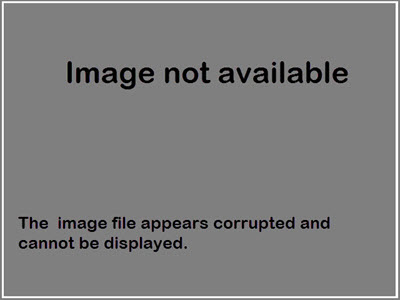
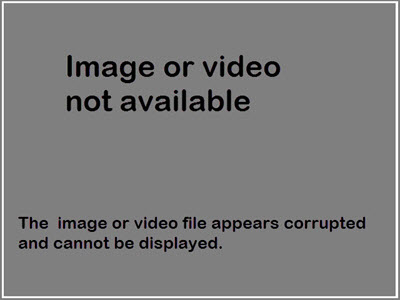
Bug fixes: Delete now works properly (previously produced indexing issues in imagetable) Wording change: Updated text in various 'Constant' bitmaps Uint test constants for DarkPixelFractiion updated (values differed somewhat from what was there - seems odd as only change was to use 'OnLoad' vs 'None

Changed region(s): [[0.15, 0.18, 0.87, 0.39], [0.03, 0.72, 0.93, 0.84]]

diff --git a/Timelapse2/Timelapse/TimelapseWindow.xaml.cs b/Timelapse2/Timelapse/TimelapseWindow.xaml.cs
@@ -384,7 +384,8 @@ namespace Timelapse
                         // framework bug: WriteableBitmap.Metadata returns null rather than metatada offered by the underlying BitmapFrame, so 
                         // retain the frame and pass its metadata to TryUseImageTaken().
                         bitmapSource = imageProperties.LoadBitmap(this.FolderPath);
-                        // Set the ImageQuality to corrupt if the returned bitmap is the corrupt image, otherwise set it to its Ok/Dark setting
+ 
+                        // Set the ImageQuality to corrupt i                       int foo = Constants.Images.Foo;f the returned bitmap is the corrupt image, otherwise set it to its Ok/Dark setting
                         if (bitmapSource == Constants.Images.Corrupt)
                         {
                             imageProperties.ImageQuality = ImageFilter.Corrupted;
@@ -679,59 +680,50 @@ namespace Timelapse
             }
             else
             {
-                // other than custom filters these cases shouldn't be reachable as the menu options for the filters will be disabled if there aren't any
+                // These cases are typically reached only when a user deletes all images that fit that filter.  
                 // corresponding images
                 string status;
                 string title;
                 string problem;
                 string reason = null;
                 string hint;
+                status = "Resetting filter to All Images";
+                title = "Resetting filter to All Images (no files currently match the current filter)";
                 if (filter == ImageFilter.Corrupted)
                 {
-                    status = "no corrupted files to display.";
-                    title = "Corrupted filter selected, but no files are marked as corrupted.";
-                    problem = "None of the files in this image set are corrupted images, so nothing can be shown.";
+                    problem = "The 'Corrupted filter' was previously selected. Yet no files  currently match that filter, so nothing can be shown.";
                     reason = "None of the files have their 'ImageQuality' field set to Corrupted.";
-                    hint = "If you have files you think should be marked as 'Corrupted', set their ImageQuality field to Corrupted.";
+                    hint = "If you have files you think should be marked as 'Corrupted', set their 'ImageQuality' field to 'Corrupted' and then reapply the filter to view only those corrupted files.";
                 }
                 else if (filter == ImageFilter.Custom)
                 {
-                    status = "no files to display.";
-                    title = "Custom filter selected, but no files match the specified filter.";
-                    problem = "None of the files in this image set match the specified filter, so nothing can be shown.";
-                    hint = "Try to create another custom filter.";
+                    problem = "The 'Custom filter' was previously selected. Yet no files currently match that filter, so nothing can be shown.";
+                    reason = "None of the files match the criteria set in the current Custom Filter.";
+                    hint = "Try to create another custom filter and then reapply the filter to view only those files matching the filter.";
                 }
                 else if (filter == ImageFilter.Dark)
                 {
-                    status = "no dark files to display.";
-                    title = "Dark filter selected, but no files are marked as dark.";
-                    problem = "None of the files in this image set are dark, so nothing can be shown.";
+                    problem = "The 'Dark filter' was previously selected. Yet no files currently match that filter, so nothing can be shown.";
                     reason = "None of the files have their 'ImageQuality' field set to Dark.";
-                    hint = "If you have files you think should be marked as 'Dark', set their ImageQuality field to Dark.";
+                    hint = "If you have files you think should be marked as 'Dark', set their 'ImageQuality' field to 'Dark' and then reapply the filter to view only those dark files.";
                 }
                 else if (filter == ImageFilter.Missing)
                 {
-                    status = "no missing files to display.";
-                    title = "Missing filter selected, but no files are marked as missing.";
-                    problem = "None of the files in this image set are missing, so nothing can be shown.";
+                    problem = "The 'Missing filter' was previously selected. Yet no files currently match that filter, so nothing can be shown.";
                     reason = "None of the files have their 'ImageQuality' field set to Missing.";
-                    hint = "If you have files you think should be marked as 'Missing', set their ImageQuality field to Missing.";
+                    hint = "If you have files you think should be marked as 'Missing', set their 'ImageQuality' field to 'Missing' and then reapply the filter to view only those missing files.";
                 }
                 else if (filter == ImageFilter.MarkedForDeletion)
                 {
-                    status = "No files marked for deletion to display.";
-                    title = "Delete filter selected, but no files are marked for deletion";
-                    problem = "None of the files in this image set are marked for deletion, so nothing can be shown.";
+                    problem = "The 'Marked for Deletion' filter was previously selected. Yet no files currently match that filter, so nothing can be shown.";
                     reason = "None of the files have their 'Delete?' field checked.";
-                    hint = "If you have files you think should be marked for deletion, check their Delete? field.";
+                    hint = "If you have files you think should be marked for deletion, check their 'Delete?' field and then reapply the filter to view only those files marked for deletion.";
                 }
                 else if (filter == ImageFilter.Ok)
                 {
-                    status = "no light files to display.";
-                    title = "Light filter selected, but no files are marked as light.";
-                    problem = "None of the files in this image set are light, so nothing can be shown.";
+                    problem = "The 'Ok filter' was previously selected. Yet no files currently match that filter, so nothing can be shown.";
                     reason = "None of the files have their 'ImageQuality' field set to OK.";
-                    hint = "If you have files you think should be marked as 'light', set their ImageQuality field to OK.";
+                    hint = "If you have files you think should be marked as 'Ok', set their 'ImageQuality' field to 'Ok' and then reapply the filter to view only those Ok files.";
                 }
                 else
                 {
@@ -747,7 +739,7 @@ namespace Timelapse
                     messageBox.Message.Reason = reason;
                 }
                 messageBox.Message.Hint = hint;
-                messageBox.Message.Result = "The filter will not be applied.";
+                messageBox.Message.Result = "The 'All Images' filter will be applied, where all images in your image set will be displayed.";
                 messageBox.ShowDialog();
 
                 this.SelectDataTableImagesAndShowImage(Constants.DefaultImageRowIndex, ImageFilter.All);
@@ -757,7 +749,6 @@ namespace Timelapse
             // Display the first available image under the new filter
             if (this.dataHandler.ImageDatabase.CurrentlySelectedImageCount > 0)
             {
-                // this.ShowFirstDisplayableImage(imageRow); // TODOSAUL: It used to be this call, but changed it to ShowImage. Check, but seems to work.
                 this.ShowImage(imageRow);
             }
 
@@ -2065,23 +2056,24 @@ namespace Timelapse
             if (result == true)
             {
                 long currentID = this.dataHandler.ImageCache.Current.ID;
-                int currentRow = this.dataHandler.ImageCache.CurrentRow;  // TryInvalidate may reset the current row to -1, so we need to save it.
-                foreach (long id in deleteImagesDialog.ImageFilesRemovedByID)
-                {
-                    this.dataHandler.ImageCache.TryInvalidate(id);
-                }
-
+                int currentRow;
                 if (mi.Name.Equals(this.MenuItemDeleteImage.Name) || mi.Name.Equals(this.MenuItemDeleteImages.Name))
                 {
                     // We only deleted the image, not the data. We invoke ShowImage with the saved current row to show the missing image placeholder
+                    currentRow = this.dataHandler.ImageCache.CurrentRow;  // TryInvalidate may reset the current row to -1, so we need to save it.
+                    foreach (long id in deleteImagesDialog.ImageFilesRemovedByID)
+                    {
+                        this.dataHandler.ImageCache.TryInvalidate(id);
+                    }
                     this.ShowImage(currentRow);
                 }
                 else
                 {
-                    // We deleted images and data, which may also include the current image. 
-                    // Because we may be deleting the current image, we need to find the next displayable and non-deleted image after this one.
+                    // Data has been deleted as well.
+                    // Reload the datatable. Then find and show the image closest to the last one shown
+                    this.SelectDataTableImagesAndShowImage(Constants.DefaultImageRowIndex, this.dataHandler.ImageDatabase.ImageSet.ImageFilter); // Reset the filter to retrieve the remaining images
                     int nextImage = this.dataHandler.ImageDatabase.FindClosestImage(currentID);
-                    this.SelectDataTableImagesAndShowImage(nextImage, this.dataHandler.ImageDatabase.ImageSet.ImageFilter); // Reset the filter to retrieve the remaining images
+                    this.ShowImage(nextImage); // Reset the filter to retrieve the remaining images
                 }
             }
         }
@@ -2659,6 +2651,11 @@ namespace Timelapse
 
         private bool TryShowImageWithoutSliderCallback(bool forward, ModifierKeys modifiers)
         {
+            // Check to see if there are any images to show, 
+            if (this.dataHandler.ImageDatabase.CurrentlySelectedImageCount <= 0)
+            {
+                return false;
+            }
             // determine how far to move and in which direction
             int increment = forward ? 1 : -1;
             if ((modifiers & ModifierKeys.Shift) == ModifierKeys.Shift)
@@ -2670,9 +2667,22 @@ namespace Timelapse
                 increment *= 10;
             }
 
+            // SAUL TODO 
+            // ORIGINAL CODE. DELETE After Unit Testing bug is fixed.
+            // try to move
+            //int desiredRow = this.dataHandler.ImageCache.CurrentRow + increment;
+            //if (this.dataHandler.ImageDatabase.IsImageRowInRange(desiredRow))
+            //{
+            //    this.ImageNavigatorSlider_EnableOrDisableValueChangedCallback(false);
+            //    this.ShowImage(desiredRow);
+            //    this.ImageNavigatorSlider_EnableOrDisableValueChangedCallback(true);
+            //    return true;
+            //}
+            //return false;
+
             int desiredRow = this.dataHandler.ImageCache.CurrentRow + increment;
 
-            // Set the desiredRow to either the maximum or minimum row if it exceeds the bounds
+            // Set the desiredRow to either the maximum or minimum row if it exceeds the bounds,
             if (desiredRow >= this.dataHandler.ImageDatabase.CurrentlySelectedImageCount)
             {
                 desiredRow = this.dataHandler.ImageDatabase.CurrentlySelectedImageCount - 1;

diff --git a/UnitTests/TestConstant.cs b/UnitTests/TestConstant.cs
@@ -270,7 +270,7 @@ namespace Timelapse.UnitTests
                 // images
                 DefaultExpectation.DaylightBobcatImage = new ImageExpectations()
                 {
-                    DarkPixelFraction = 0.24222145485288338,
+                    DarkPixelFraction = 0.242364344315876,
                     Date = "05-Aug-2015",
                     FileName = TestConstant.File.DaylightBobcatImage,
                     IsColor = true,
@@ -280,7 +280,7 @@ namespace Timelapse.UnitTests
 
                 DefaultExpectation.DaylightCoyoteImage = new ImageExpectations()
                 {
-                    DarkPixelFraction = 0.60847930235235814,
+                    DarkPixelFraction = 0.610071236552411,
                     Date = "21-Apr-2016",
                     FileName = TestConstant.File.DaylightCoyoteImage,
                     IsColor = true,
@@ -291,7 +291,7 @@ namespace Timelapse.UnitTests
 
                 DefaultExpectation.DaylightMartenPairImage = new ImageExpectations()
                 {
-                    DarkPixelFraction = 0.70253739978510621,
+                    DarkPixelFraction = 0.705627292783256,
                     Date = "28-Jan-2015",
                     FileName = TestConstant.File.DaylightMartenPairImage,
                     IsColor = true,
@@ -303,7 +303,7 @@ namespace Timelapse.UnitTests
 
                 DefaultExpectation.InfraredMartenImage = new ImageExpectations()
                 {
-                    DarkPixelFraction = 0.0743353174106539,
+                    DarkPixelFraction = 0.077128711384332,
                     Date = "24-Feb-2016",
                     FileName = TestConstant.File.InfraredMartenImage,
                     IsColor = false,

diff --git a/Timelapse2/Timelapse/Database/ImageDatabase.cs b/Timelapse2/Timelapse/Database/ImageDatabase.cs
@@ -824,7 +824,7 @@ namespace Timelapse.Database
             foreach (long id in idList)
             {
                 idClauses.Add(Constants.DatabaseColumn.ID + " = " + id.ToString());
-            }
+            }           
             if (idClauses.Count > 0)
             {
                 // Delete the data and markers associated with that image
